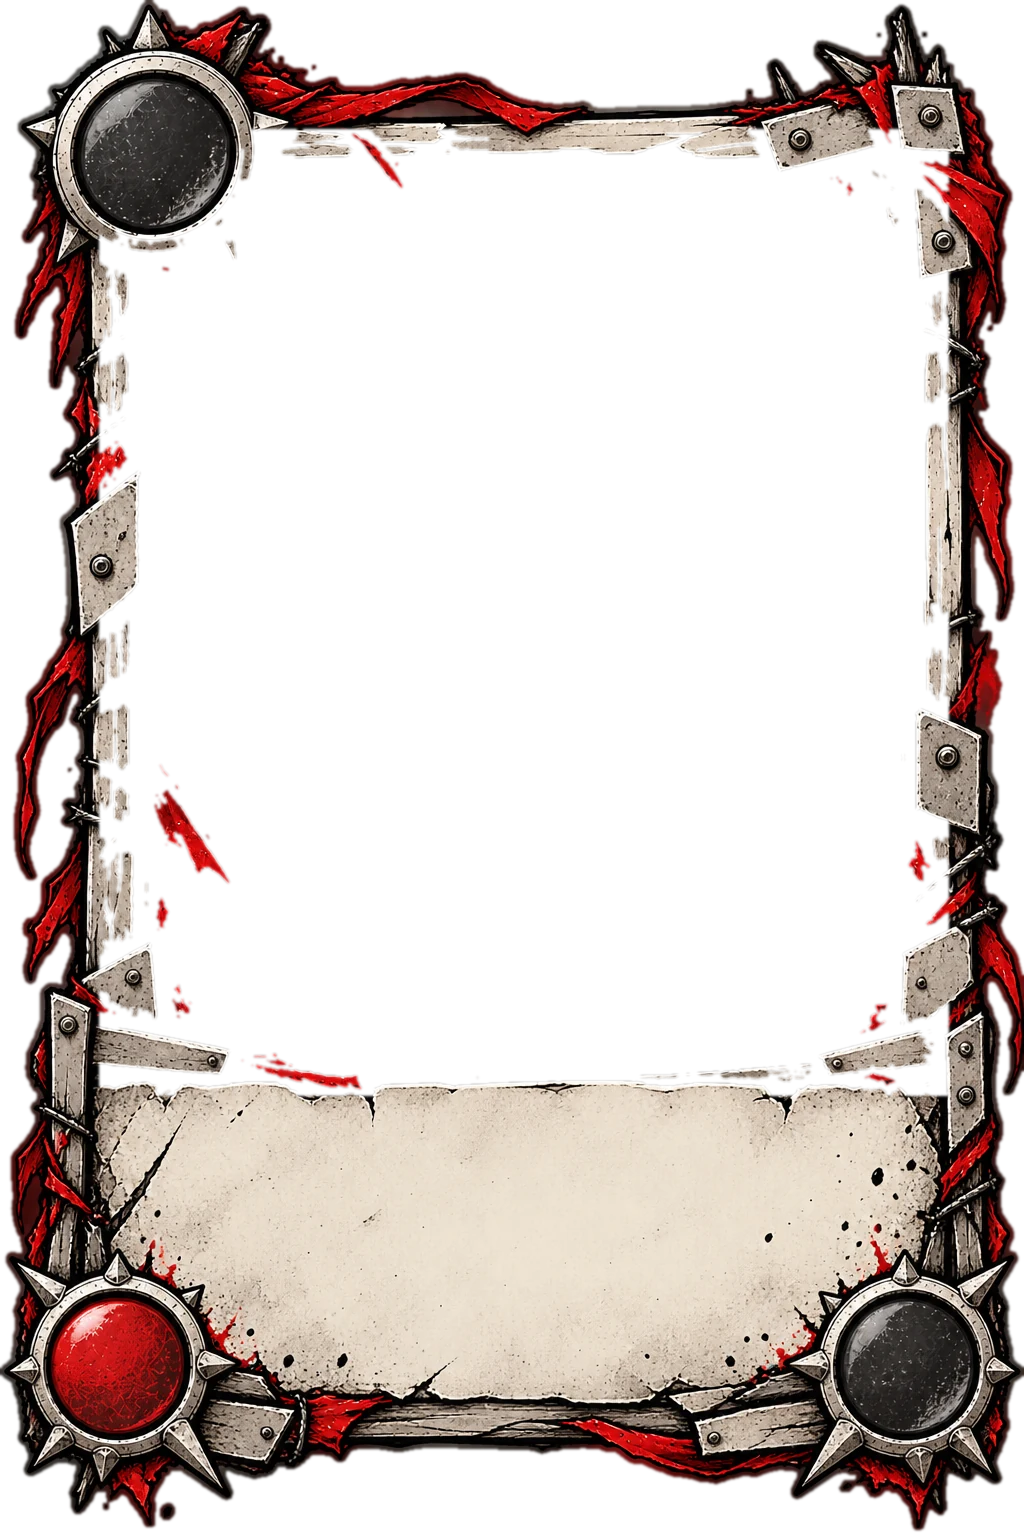
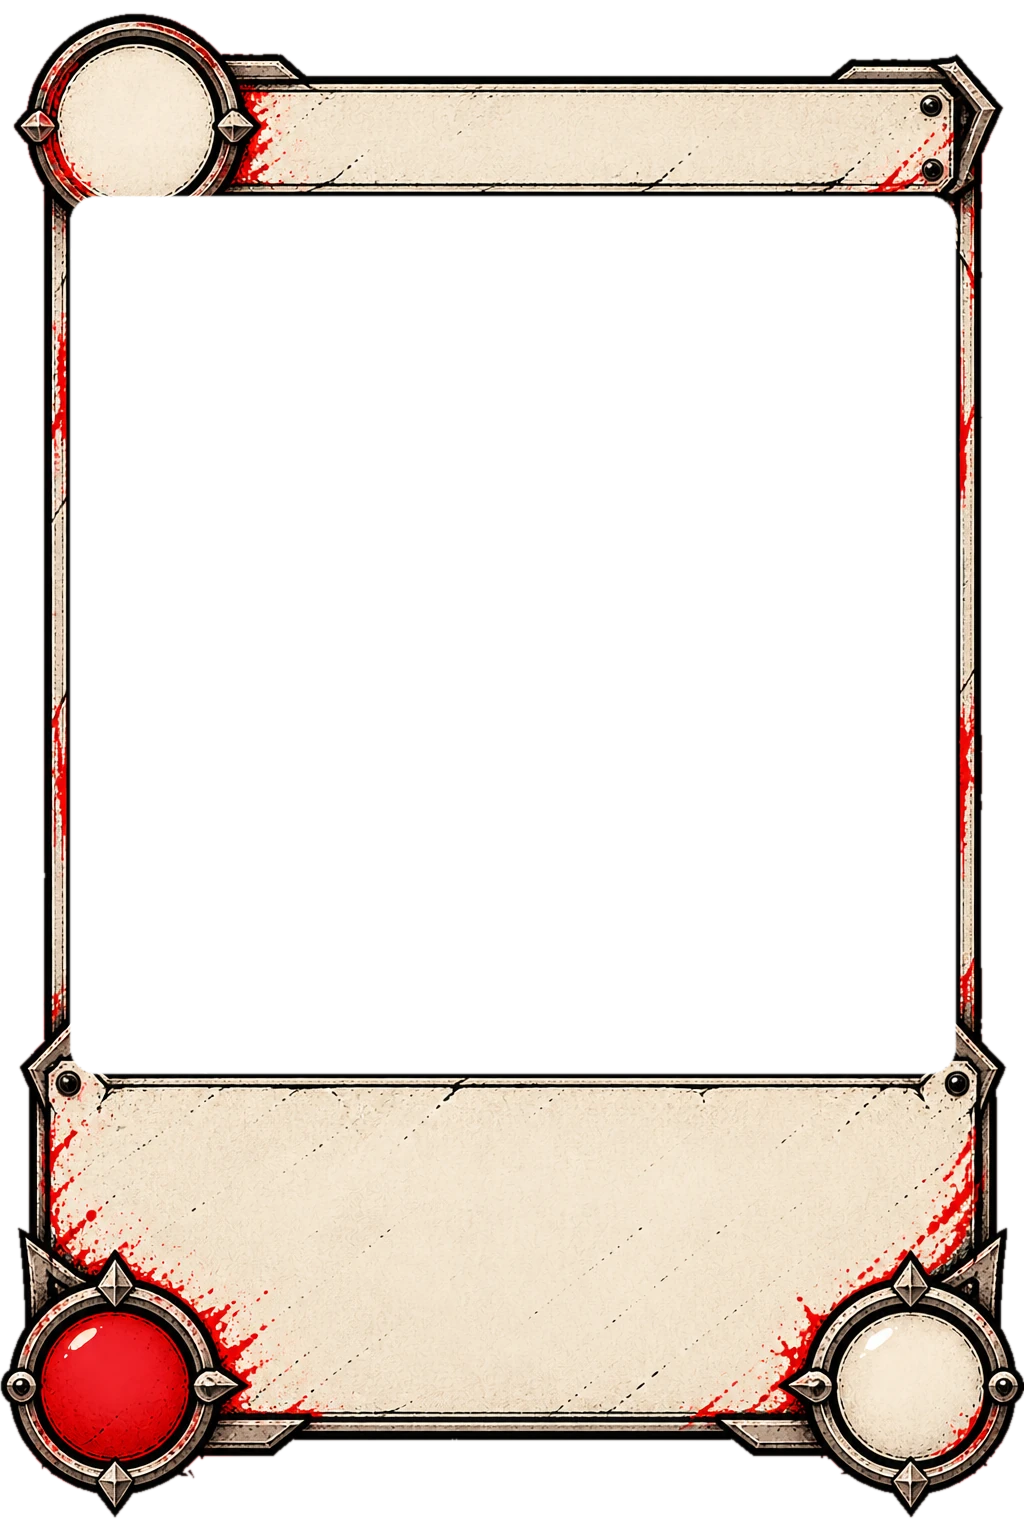
Style artiste : refonte de l’écran de jeu (cadre de carte et plateau d’Amine, bandeau, colonnes PC, grande carte au survol, « Nuit rouge dans N », bouton carré sur téléphone) (v200)
Claude-Session: https://claude.ai/code/session_01T2JmgLuv5XAUbveSJ1EpfN

diff --git a/src/style.css b/src/style.css
@@ -1561,3 +1561,93 @@ html.artx #go:not(.speed){padding-bottom:16px;--pl:var(--ax-rv4),var(--ax-hands)
  --sh:inset 0 0 0 3px #1b1916,inset 0 0 0 5px #4a453e,inset 0 0 0 6px #000,inset 0 2px 0 7px rgba(255,200,180,.18),inset 0 0 28px rgba(40,0,0,.7),0 0 0 2px #000,0 6px 0 #000,0 12px 18px rgba(0,0,0,.75)}
 html.artx #go:not(.speed):not(:disabled):active{transform:rotate(-1.2deg) translateY(4px)}
 html.artx #go.speed{transform:none}
+
+/* ===== v200 : refonte du jeu (maquettes validées par Amine), style artiste seulement (html.artx) ===== */
+/* cadre de carte d'Amine (assets/art/ui/cadre.webp, 1024 × 1536, fenêtre et extérieur transparents) :
+   coût dans le rond du haut, nom dans le bandeau du haut, texte sur le parchemin, dégâts dans le rond rouge, PV dans le rond blanc */
+.artx .cf-art,.artx .cf-vig{left:6.8%;right:6.7%;top:12.6%;bottom:29.8%;height:auto;border-radius:2.5cqw}
+.artx .cf-art{background-position:center 22%}
+.artx .cf-vig{box-shadow:inset 0 0 5cqw rgba(0,0,0,.55)}
+.artx .cf-cost,.artx .cf.mini .cf-cost{left:13.5%;top:9%;color:#1b1712;text-shadow:none;font-family:'Oswald','Arial Narrow',sans-serif;font-weight:600}
+.artx .cf-cost{font-size:12cqw}.artx .cf.mini .cf-cost{font-size:22cqw}
+.artx .cf-name{top:5.9%;left:26%;right:9%;height:6.2%;display:flex;align-items:center;justify-content:center;color:#1b1712;line-height:1}
+.artx .cf-rar{top:69.6%}
+.artx .cf-rule{display:none}
+.artx .cf-txt{top:72.6%;bottom:17%;left:11%;right:11%;color:#2a1c0e}
+.artx .cf-foot{left:1.6%;right:1.6%;top:84%;height:13%}
+.artx .cf-atk,.artx .cf-hp{width:18.6cqw;font:600 10cqw/1 'Oswald','Arial Narrow',sans-serif}
+.artx .cf-atk{color:#fff3e6;text-shadow:0 0 1cqw #4a0906,0 .4cqw .5cqw #000}
+.artx .cf-hp{color:#1b1712;text-shadow:none}
+.artx .cf-hp .ink,.artx .cf-hp svg{display:none}
+.artx .cf.mini .cf-name{top:5.2%;left:24%;right:6%;height:7.4%;font-size:10.5cqw}
+.artx .cf.mini .cf-v{top:73%}
+.artx .cf.mini .cf-atk,.artx .cf.mini .cf-hp{font-size:17cqw}
+.artx .cf-name{font:600 8.6cqw/1 'Oswald','Arial Narrow',sans-serif;letter-spacing:.01em;white-space:nowrap;overflow:hidden;text-overflow:ellipsis;display:block;padding-top:1.4cqw;text-align:center}
+.artx .cf.mini .cf-name{font-size:12.5cqw;padding-top:1.6cqw}
+/* ---- PC (html.felton) : bandeau en haut, colonne d'infos à gauche, plateau au centre, fiche et bouton à droite, main en bas ---- */
+html.artx.felton body{background:#16120f}
+html.artx.felton body::before{content:"";position:fixed;inset:0;z-index:-1;pointer-events:none;
+ background:linear-gradient(rgba(10,7,5,0) 0,rgba(10,7,5,.15) 90px,#16120f 118px),var(--ui-bandeau,none) center 58%/100vw auto no-repeat;height:120px}
+html.artx.felton .app{--bh:96px;--hh:172px;--pw:300px;--rw:330px;--gap:10px;--map:min(calc(100dvh - var(--bh) - var(--hh) - 3*var(--gap) - 12px),calc(100vw - var(--pw) - var(--rw) - 2*var(--gap) - 2*var(--pad)));
+ grid-template-columns:var(--pw) var(--map) minmax(var(--rw),1fr)!important;grid-template-rows:var(--bh) auto auto minmax(0,1fr) auto var(--hh)!important;
+ column-gap:var(--gap);row-gap:0;padding-block:6px;justify-content:center;align-content:start}
+html.artx.felton .woods{display:none!important}
+html.artx.felton .side:first-child{grid-column:1/-1;grid-row:1;align-self:stretch}
+html.artx.felton .felt{grid-column:1;grid-row:2/6;height:var(--map);margin-top:var(--gap)}
+html.artx.felton .app>.map{grid-column:2;grid-row:2/6;align-self:start;margin:var(--gap) 0 0;width:var(--map)}
+html.artx.felton .side2{display:contents}
+html.artx.felton .side2>.tip{grid-column:3;grid-row:2;margin:var(--gap) 0 6px}
+html.artx.felton .side2>.meter{grid-column:3;grid-row:3;margin:0 0 6px}
+html.artx.felton .side2>.info{grid-column:3;grid-row:4;align-self:start;margin:var(--gap) 0 0;max-height:calc(var(--map) - 120px);overflow:auto}
+html.artx.felton .axbig{grid-column:3;grid-row:2/5;align-self:start;justify-self:center;margin-top:var(--gap);width:min(230px,calc(var(--map) * .44));z-index:6;pointer-events:none;filter:drop-shadow(0 14px 18px rgba(0,0,0,.8))}
+html.artx.felton .axbig .cf{width:100%}
+html.artx.felton .side2>.go{grid-column:3;grid-row:5;align-self:end;margin:0;min-height:96px}
+html.artx.felton .side2>.table{grid-column:1/-1;grid-row:6;margin-top:var(--gap);height:calc(var(--hh) - var(--gap));grid-template-columns:96px minmax(0,1fr) 96px}
+.axbig[hidden]{display:none}
+/* bandeau : étiquette du jour à gauche, icônes et abri à droite */
+html.artx.felton .top{height:100%;align-items:flex-start;padding-top:4px}
+html.artx.felton .top .brand{display:none}
+html.artx.felton button.round{order:-1;margin-right:auto;position:relative;width:88px;min-height:84px;padding:6px 2px 5px;white-space:normal;text-align:center;font-size:38px;line-height:.95;word-spacing:100px;transform:rotate(-2deg)}
+html.artx.felton button.round::first-line{font-size:15px;letter-spacing:.12em}
+html.artx button.round .axn{display:block;margin-top:3px;font:700 10.5px/1.1 var(--f-body);word-spacing:normal;letter-spacing:0;text-transform:none;color:#7a1a10}
+html.artx.felton .top .mute{width:40px;height:40px}
+html.artx.felton .top .shel{min-width:150px;padding:6px 9px;background:rgba(14,12,10,.82);border:1.5px solid #000;border-radius:4px;box-shadow:inset 0 0 0 1px #3b362f}
+/* cadres en métal fin et foncé : colonnes, plateau, main */
+html.artx :is(.felt,.table,.info,.event,.meter){border:2px solid #000!important;border-radius:4px!important;background:var(--ax-noise),linear-gradient(#1c1a17,#131110)!important;
+ box-shadow:inset 0 0 0 2px #3a3631,inset 0 0 0 3px #000,inset 0 1px 0 3px rgba(255,255,255,.05),0 8px 16px rgba(0,0,0,.7)!important}
+html.artx .app>.map{border-radius:3px;box-shadow:0 0 0 2px #3a3631,0 0 0 3px #000,0 0 0 4px #24211d,0 10px 22px rgba(0,0,0,.75)!important}
+html.artx.felton .info{padding:10px 12px;text-align:left}
+/* pioche à droite de la main, défausse à gauche */
+html.artx .table>.piles:first-child{order:3}html.artx .table>.hand{order:2}html.artx .table>.piles:last-child{order:1}
+html.artx.felton .side2 .hand{grid-template-columns:repeat(var(--n,5),minmax(0,100px));align-self:center}
+html.artx.felton .fpiles{display:none}
+html.artx.felton .felt{gap:10px;padding:10px}
+html.artx.felton button.round{width:100px}
+html.artx .ftabs{background:rgba(0,0,0,.3)!important;border:1.5px solid #000!important;border-radius:4px!important}
+html.artx .ft-tabs button{font-family:var(--ax-head);font-weight:600;text-transform:uppercase;letter-spacing:.08em;color:#b3a890;background:linear-gradient(#2c2925,#1c1a17)}
+html.artx .ft-tabs button.on{color:#fbefd8;background:linear-gradient(#c0352a,#8a1c14);box-shadow:none}
+html.artx :is(.ft-c,.ft-z,.ft-sg div,.ft-mvp){background:rgba(0,0,0,.35);border-color:#3b362f}
+html.artx .ft-body h4{font-family:var(--ax-head);font-weight:600;text-transform:uppercase;letter-spacing:.06em;color:#f1e7cf}
+html.artx :is(.ft-body h4 small,.ft-zt p,.ft-e,.ft-sg span,.ft-chl){color:#b3a890}
+html.artx .ft-zn{font-family:var(--ax-head);color:#e8c27a}
+html.artx.felton .app{--hh:186px}
+html.artx.felton .side2>.table{padding-block:12px}
+/* ---- téléphone en hauteur : bandeau en fond du haut, bouton carré « Affronter la nuit » à droite de la fiche (la main garde toute la largeur) ---- */
+@media (orientation:portrait){
+ html.artx:not(.felton) body::before{content:"";position:absolute;left:0;right:0;top:0;height:150px;z-index:-1;pointer-events:none;
+  background:linear-gradient(rgba(10,7,5,0) 40%,#0e0d0b),var(--ui-bandeau,none) 30% 60%/auto 330px no-repeat}
+ html.artx:not(.felton) .app{gap:6px}
+ html.artx:not(.felton) .event{min-height:100px}
+ html.artx:not(.felton) button.round{font-size:34px;min-height:0;padding:5px 2px 4px}
+ html.artx:not(.felton) button.round .axn{font-size:9.5px}
+ html.artx:not(.felton) .app>.map{margin-top:2px;margin-bottom:2px}
+ html.artx:not(.felton) .side2{order:2;display:grid;grid-template-columns:minmax(0,1fr) 100px;gap:6px;align-items:stretch}
+ html.artx:not(.felton) .side2>*{grid-column:1/-1}
+ html.artx:not(.felton) .side2>.info{grid-column:1;grid-row:3;margin:0;padding:6px 8px;font-size:12px}
+ html.artx:not(.felton) .side2>#go{grid-column:2;grid-row:3;min-height:92px;padding:6px 4px 22px;white-space:normal;word-spacing:100px;font-size:19px;line-height:1;letter-spacing:.02em}
+ html.artx:not(.felton) .side2>#go.speed{word-spacing:normal;font-size:14px}
+ html.artx:not(.felton) .side2>.table{grid-row:4}
+}
+/* bouton de vitesse (nuit) : plaque d'acier lisible */
+html.artx #go.speed{background:var(--ax-rv2),var(--ax-brush2) 0 0/400px 200px,linear-gradient(#bab4a8 0,#9a9488 12%,#857f74 50%,#767066 51%,#827c71 88%,#544f47 100%)!important;background-blend-mode:normal,normal,soft-light,normal!important;
+ color:#1c1a17!important;text-shadow:0 1px 0 rgba(255,255,255,.4)!important;filter:none!important;opacity:1!important;font-family:var(--ax-head);font-weight:600;letter-spacing:.06em}

diff --git a/src/game-artx.js b/src/game-artx.js
@@ -1,0 +1,20 @@
+// v200 : refonte du jeu dans le style artiste (html.artx seulement) : plateau dessiné d'Amine comme sol,
+// grande carte au survol (PC), « Nuit rouge dans N » sur l'étiquette du jour. Chargé en dernier.
+const AX={on:()=>DE.classList.contains('artx'),plat:null};
+// sol du plateau : l'image d'Amine (9 × 9 cases + palissade) posée sur les 11 × 11 cases du jeu (la palissade couvre l'anneau de la forêt)
+{const g0=buildGround;buildGround=function(B){g0.apply(this,arguments);try{if(!AX.on()||!AX.plat)return;const g=ground.getContext('2d'),k=ground.width/L,sc=T/94.1;
+ g.save();g.setTransform(1,0,0,1,0,0);g.clearRect(0,0,ground.width,ground.height);g.drawImage(AX.plat,(T-200*sc)*k,(T-162*sc)*k,1245*sc*k,1263*sc*k);g.restore()}catch(e){}}}
+function axGround(){try{setBiome.done=0;setBiome(BIOME)}catch(e){}}
+function axPlat(){if(AX.plat||!(ART_NEW.ui||[]).includes('plateau.webp'))return axGround();const im=new Image();im.onload=()=>{AX.plat=im;axGround()};im.src='assets/art/ui/plateau.webp'}
+{const a0=applyArt;applyArt=function(){a0.apply(this,arguments);try{feltLayout();if(AX.on())axPlat();else axGround()}catch(e){}}}
+if(AX.on())axPlat();
+// étiquette du jour : nombre de jours avant la prochaine nuit rouge (lu sur la piste des nuits)
+{const r0=render;render=function(){r0.apply(this,arguments);try{const r=$('#round');if(!AX.on()||!r||!G||S.busy||G.oneNight)return;
+ const cs=[...document.querySelectorAll('#horde .tc')],i=cs.findIndex(c=>c.classList.contains('now')),j=cs.findIndex((c,k)=>k>i&&c.classList.contains('red'));
+ if(i>=0&&j>i&&!r.querySelector('.axn')){const n=j-i;r.insertAdjacentHTML('beforeend',`<small class="axn">${n===1?_t('Nuit rouge demain'):_t`Nuit rouge dans ${n}`}</small>`)}}catch(e){}}}
+// grande carte au survol de la main (PC, souris), dans la colonne de droite
+{let big=null;const show=k=>{try{if(!AX.on()||!DE.classList.contains('felton')||!matchMedia('(hover:hover)').matches)return;const t=S.hand[k];if(t==null)return;
+  if(!big){big=document.createElement('div');big.id='axBig';big.className='axbig';const i=$('#info');i.parentNode.insertBefore(big,i)}
+  big.innerHTML=cardFace(t);big.hidden=false}catch(e){}};
+ const hide=()=>{if(big)big.hidden=true};
+ const h=$('#hand');if(h){h.addEventListener('mouseover',e=>{const c=e.target.closest('.card');if(c)show(+c.dataset.k)});h.addEventListener('mouseleave',hide);h.addEventListener('click',hide)}}

diff --git a/src/game-ui.js b/src/game-ui.js
@@ -373,9 +373,11 @@ async function night(){
 }
 // v179 : sur grand écran PC, la fiche de nuit et les piles passent sur le tapis vert de gauche (le CSS place ce tapis)
 function feltLayout(){try{const f=$('#felt'),fp=$('#fpiles'),m=document.querySelector('.mat'),t=$('#table'),h=$('#hand'),pd=$('#pDraw').parentNode,pc=$('#pDisc').parentNode;
- const on=innerWidth-innerHeight>=790&&innerHeight>=640&&matchMedia('(orientation:landscape) and (min-aspect-ratio:5/4) and (min-width:560px)').matches;document.documentElement.classList.toggle('felton',on);
- if(on&&m.parentNode!==f){f.insertBefore(m,f.firstChild);fp.append(pd,pc)}
- else if(!on&&m.parentNode===f){document.querySelector('.side').appendChild(m);t.insertBefore(pd,h);t.appendChild(pc)}}catch(e){}}
+ const ax0=document.documentElement.classList.contains('artx'),on=(ax0?innerWidth>=1000&&innerHeight>=600:innerWidth-innerHeight>=790&&innerHeight>=640)&&matchMedia('(orientation:landscape) and (min-aspect-ratio:5/4) and (min-width:560px)').matches;document.documentElement.classList.toggle('felton',on);
+ // style artiste : la pioche et la défausse restent de chaque côté de la main
+ const ax=document.documentElement.classList.contains('artx');
+ if(on&&m.parentNode!==f)f.insertBefore(m,f.firstChild);else if(!on&&m.parentNode===f)document.querySelector('.side').appendChild(m);
+ if(on&&!ax){if(pd.parentNode!==fp)fp.append(pd,pc)}else if(pd.parentNode===fp){t.insertBefore(pd,h);t.appendChild(pc)}}catch(e){}}
 addEventListener('resize',()=>{feltLayout();const b=$('#ftabs');if(b)b._h=null;feltTabs()});feltLayout();
 // v180 : onglets du tapis vert (grand écran PC) : Pioche, Horde, Journal. Le joueur choisit, le choix est retenu.
 const FT_COL={post:'#9ee08a',wall:'#c9a27a',shoot:'#f2b33d',melee:'#ff7a59',help:'#7cc7ff',trap:'#e5484d',item:'#d6c2ff',react:'#f0a0d0'},FT_ORD=['wall','post','shoot','melee','help','trap','item','react'];

diff --git a/index.html b/index.html
@@ -13,7 +13,7 @@
 <meta name="mobile-web-app-capable" content="yes">
 <meta name="apple-mobile-web-app-status-bar-style" content="black-translucent">
 <meta name="apple-mobile-web-app-title" content="Barricard">
-<link rel="stylesheet" href="src/style.css?v=199">
+<link rel="stylesheet" href="src/style.css?v=200">
 </head>
 <body>
 
@@ -52,17 +52,18 @@
 </div>
 <div class="overlay" id="ov"><div class="panel" id="panel"></div></div>
 
-<script src="src/i18n.js?v=199"></script>
-<script src="src/lang-en.js?v=199"></script>
-<script src="src/engine.js?v=199"></script>
-<script src="src/audio.js?v=199"></script>
-<script src="src/game.js?v=199"></script>
-<script src="src/game-draw.js?v=199"></script>
-<script src="src/game-ui.js?v=199"></script>
-<script src="src/game-screens.js?v=199"></script>
-<script src="src/game-menu.js?v=199"></script>
-<script src="src/game-anim.js?v=199"></script>
-<script src="src/game-fiche.js?v=199"></script>
-<script src="src/game-fx2.js?v=199"></script>
+<script src="src/i18n.js?v=200"></script>
+<script src="src/lang-en.js?v=200"></script>
+<script src="src/engine.js?v=200"></script>
+<script src="src/audio.js?v=200"></script>
+<script src="src/game.js?v=200"></script>
+<script src="src/game-draw.js?v=200"></script>
+<script src="src/game-ui.js?v=200"></script>
+<script src="src/game-screens.js?v=200"></script>
+<script src="src/game-menu.js?v=200"></script>
+<script src="src/game-anim.js?v=200"></script>
+<script src="src/game-fiche.js?v=200"></script>
+<script src="src/game-fx2.js?v=200"></script>
+<script src="src/game-artx.js?v=200"></script>
 </body>
 </html>

diff --git a/sw.js b/sw.js
@@ -3,7 +3,7 @@
    - Images, sons, polices : copie locale d'abord (chargement instantané), rafraîchie en arrière-plan.
    - version.txt : toujours le réseau (vérification de mise à jour). */
 const CACHE='abri-1';
-const CORE=['./','index.html','src/style.css','src/i18n.js','src/lang-en.js','src/engine.js','src/audio.js','src/game.js','src/game-draw.js','src/game-ui.js','src/game-screens.js','src/game-menu.js','src/game-anim.js','src/game-fiche.js','src/game-fx2.js','manifest.webmanifest',
+const CORE=['./','index.html','src/style.css','src/i18n.js','src/lang-en.js','src/engine.js','src/audio.js','src/game.js','src/game-draw.js','src/game-ui.js','src/game-screens.js','src/game-menu.js','src/game-anim.js','src/game-fiche.js','src/game-fx2.js','src/game-artx.js','manifest.webmanifest',
  'assets/fonts/special-elite.woff2','assets/fonts/atkinson-400.woff2','assets/fonts/atkinson-700.woff2','assets/fonts/oswald-600.woff2','assets/ui/fond.webp','assets/ui/fond-2.webp','assets/ui/fond-3.webp','assets/ui/fond-4.webp','assets/ui/fond-5.webp','assets/ui/fond-6.webp','assets/ui/fond-zombies.webp','assets/ui/fond-portrait2.webp','assets/ui/barricard.webp'];
 self.addEventListener('install',e=>{e.waitUntil(caches.open(CACHE).then(c=>c.addAll(CORE)).catch(()=>{}).then(()=>self.skipWaiting()))});
 self.addEventListener('activate',e=>{e.waitUntil(caches.keys().then(ks=>Promise.all(ks.filter(k=>k!==CACHE).map(k=>caches.delete(k)))).then(()=>self.clients.claim()))});

diff --git a/tools/art-liste.js b/tools/art-liste.js
@@ -4,11 +4,12 @@
 const fs=require('fs'),path=require('path');
 const ROOT=path.join(__dirname,'..','assets'),ART=path.join(ROOT,'art');
 const OLD={cards:'cards_cartoon',sprites:'sprites_cartoon',relics:'relics',ui:'ui'};
+const NEW_UI=new Set(['bandeau.webp','plateau.webp']);// images propres au style artiste (rien à remplacer)
 const IMG=/\.(webp|png|jpg|jpeg|svg)$/i;
 function build(){const L={},warn=[];
  for(const d in OLD){const dir=path.join(ART,d);L[d]=fs.existsSync(dir)?fs.readdirSync(dir).filter(f=>IMG.test(f)).sort():[];
   const old=new Set(fs.readdirSync(path.join(ROOT,OLD[d])));
-  L[d].forEach(f=>{if(!old.has(f))warn.push(`${d}/${f} : aucune image actuelle « assets/${OLD[d]}/${f} »`)})}
+  L[d].forEach(f=>{if(!old.has(f)&&!(d==='ui'&&NEW_UI.has(f)))warn.push(`${d}/${f} : aucune image actuelle « assets/${OLD[d]}/${f} »`)})}
  return{L,warn}}
 const{L,warn}=build(),file=path.join(ART,'liste.json'),txt=JSON.stringify(L,null,1)+'\n';
 if(require.main===module){

diff --git a/src/game.js b/src/game.js
@@ -216,7 +216,7 @@ function cardFace(t,o={}){const E=Z.edOf(t),B=Z.baseOf(t),U0=Z.U[t],D=o.base?(E?
 const art=t=>{t=Z.baseOf(t);const u=Z.U[t]&&artUrl(t);return u?`<span class="art" style="background-image:url('${u}')"></span>`:svg(t)};
 const cc=t=>`var(--k-${Z.U[t].cat})`;
 // à changer à chaque mise en ligne : permet de vérifier sur le téléphone qu'on a la dernière version
-const VERSION='v199 · 29 oct.';
+const VERSION='v200 · 29 oct.';
 /* démo publique (v153) : DEMO_BUILD passe à true seulement dans la copie envoyée sur la page itch.io de la démo
    (.github/workflows/itch.yml). « ?demo » dans l'adresse l'active aussi, pour essayer. Règles : Z.setDemo (engine.js). */
 var DEMO_BUILD=false;

diff --git a/src/lang-en.js b/src/lang-en.js
@@ -1494,4 +1494,6 @@ I18N.en={
 "Zones non couvertes":"Uncovered areas",
 "Nuit rouge":"Red night",
 "Images de l’artiste (essai, visible seulement sur le site de test) : {0} prêtes":"Artist images (trial, only visible on the test site): {0} ready",
+"Nuit rouge demain":"Red night tomorrow",
+"Nuit rouge dans {0}":"Red night in {0}",
 };

diff --git a/docs/GAME_DESIGN.md b/docs/GAME_DESIGN.md
@@ -568,6 +568,12 @@ Les illustrations de l’artiste remplacent les images actuelles petit à petit,
 - **v197 : écran de jeu** d’après la 2e maquette : téléphone en hauteur, grande étiquette « JOUR n » en parchemin à gauche de la fiche de nuit ; piste des nuits en cases sombres (nuit rouge en rouge, nuit en cours en parchemin) ; pastilles en parchemin ; énergie en cases jaunes dans une barre sombre ; bouton Annuler sombre à bord vert. Boutons en métal usé (acier brossé, rayures, rouille, rivets ; principal en tôle peinte rouge écaillée ; onglets et icônes en métal sombre). Le bouton « Affronter la nuit » reste sous la main sur téléphone (à côté, la main serait trop serrée à 390 px).
 - **v198 :** métal uniforme (plus de taches de rouille sur les bords des boutons, rayures discrètes, plus de marbrures dans les fonds) ; cadres (panneaux, fiche de nuit, main) à bordure de métal sombre régulière, avec un rivet à chaque coin.
 - **v199 : relief** : tôle bosselée éclairée (bruit éclairé en SVG, mélangé en incrustation pour garder la couleur), biseaux, rivets, texte gravé, boutons épais qui s’enfoncent, onglets en touches de métal, champs creusés ; plus aucune rouille, rayure ni trace sur les cadres. « Affronter la nuit » reprend le panneau de la maquette : tôle rouge cabossée, cadre de métal noir à boulons, texte crème cerné de noir, mains de zombies qui montent du bas (dessinées en SVG).
+- **v200 : refonte de l’écran de jeu** (maquettes validées par Amine, `html.artx` seulement) :
+  - **cadre de carte d’Amine** (`assets/art/ui/cadre.webp`) : coût dans le rond du haut, nom (police condensée) dans le bandeau du haut, texte sur le parchemin, dégâts dans le rond rouge, PV dans le rond blanc ;
+  - **plateau d’Amine** (`assets/art/ui/plateau.webp`, 9 × 9 cases + palissade) dessiné comme sol : les 9 × 9 dalles sont les cases jouables, la palissade couvre l’anneau d’où arrivent les zombies ; sprites, noms et bonus des unités inchangés (`src/game-artx.js`) ;
+  - **PC (dès 1000 × 600)** : bandeau d’Amine en haut (`assets/art/ui/bandeau.webp`) avec l’étiquette du jour, les icônes et l’abri ; à gauche la fiche de nuit, la piste, les pastilles et les onglets Pioche / Horde / Journal ; au centre le plateau ; à droite la fiche de l’unité touchée et la **grande carte au survol de la souris**, puis « Affronter la nuit » ; en bas la main, avec la défausse à gauche et la pioche à droite ;
+  - **téléphone** : bandeau en fond du haut, « Affronter la nuit » carré à droite de la fiche (à côté de la main, les cartes seraient trop petites) ;
+  - étiquette du jour : « Nuit rouge dans N » ; cadres en métal fin et foncé ; bouton de vitesse en acier lisible.
 - Quand le style artiste sera validé : il deviendra le style par défaut, puis les anciennes images seront retirées (ou gardées en option « classique », au choix d’Amine).
 
 ## Le mode test (v130)

diff --git a/CLAUDE.md b/CLAUDE.md
@@ -33,6 +33,7 @@ Le document de conception complet est dans `docs/GAME_DESIGN.md`. Lis-le avant t
   - `game-menu.js` : défi du jour, tableau des combats, menu pause, raccourcis clavier, accueil et démarrage.
   - `game-anim.js` : animations de cartes inspirées de Hearthstone (main, pose, aube, collection, decks, récompense) ; chargé en dernier, il enveloppe quelques fonctions des autres fichiers.
   - `game-fiche.js` : fiche de fin de partie (rapport de survie) et son image à partager ; chargé après `game-anim.js`.
+  - `game-artx.js` : refonte du style artiste (plateau dessiné, grande carte au survol, « Nuit rouge dans N ») ; chargé tout à la fin.
   - `game-fx2.js` : troisième série d’effets (avant → après, zones non couvertes, bouton de la nuit, nuit rouge, gros coups, maison touchée, aube) ; chargé en dernier.
 - `sw.js` : rend le jeu jouable sans internet une fois chargé (code : réseau d’abord ; images et sons : copie locale d’abord).
 - `assets/art/` : les images de l’artiste en essai (même nom que l’image remplacée, puis `node tools/art-liste.js`), visibles via Options → « Images de l’artiste » sur le site GitHub seulement (voir `docs/GAME_DESIGN.md`, « Le style artiste »).
